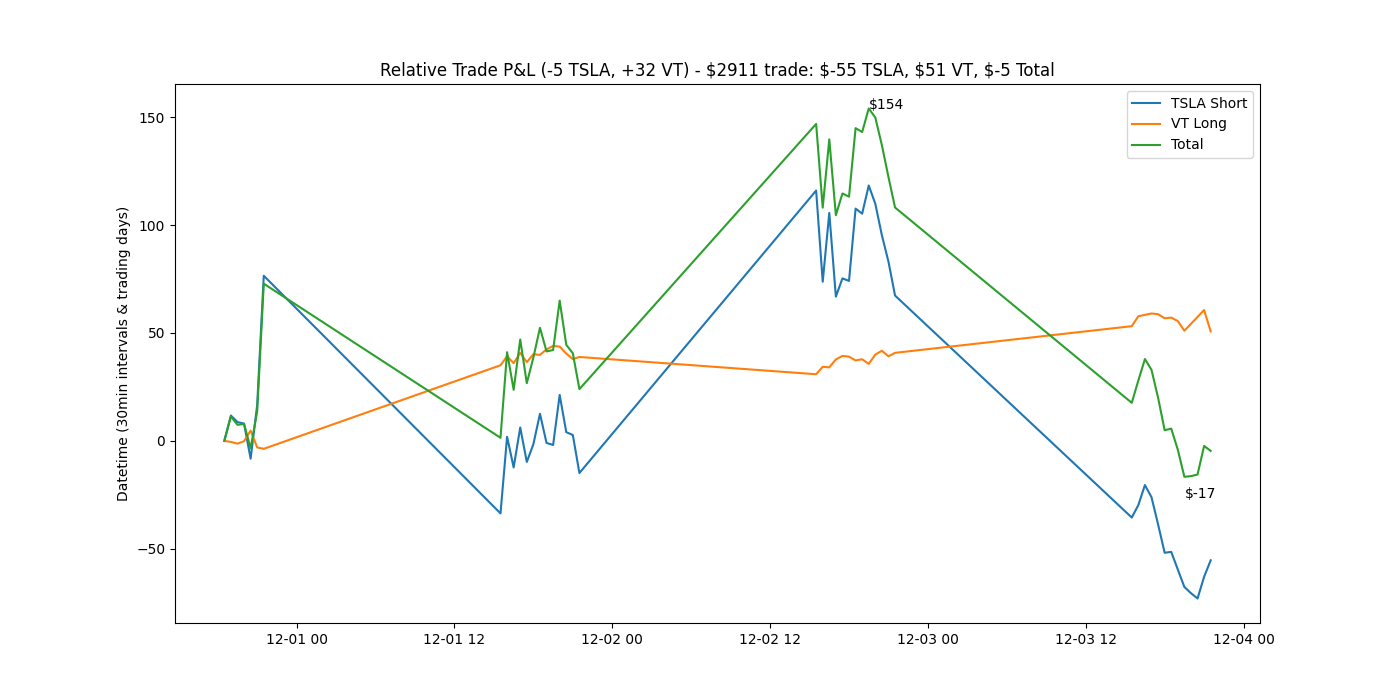
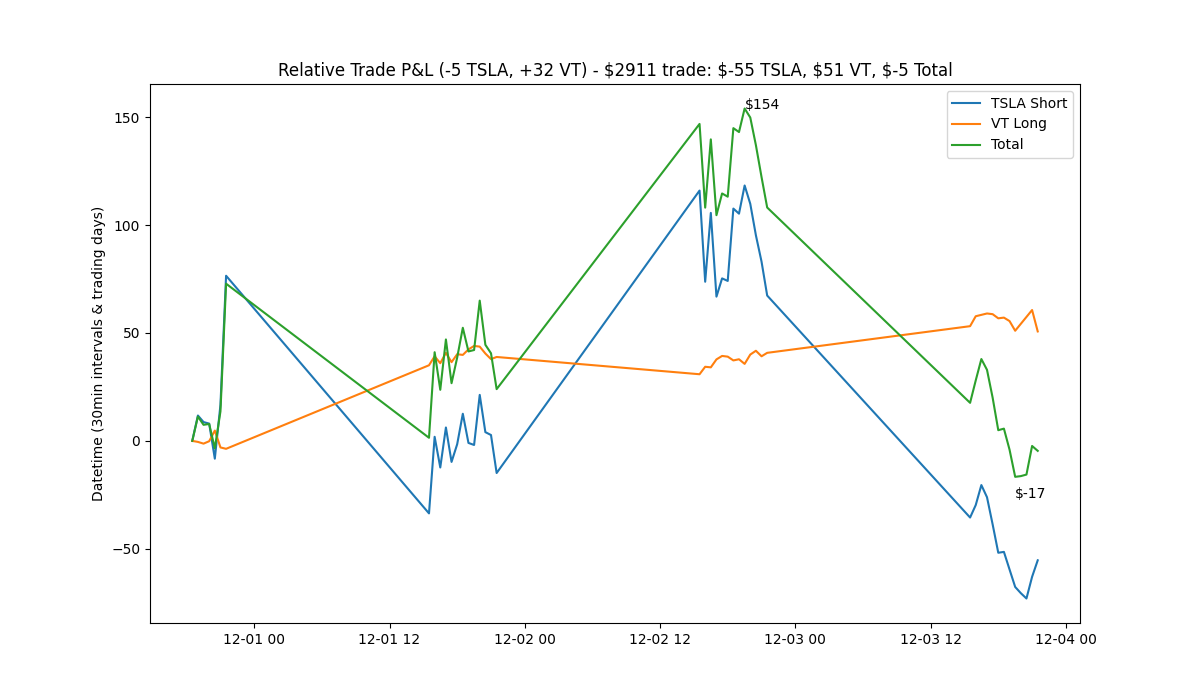
adjust img size for github

diff --git a/tesla_stock.py b/tesla_stock.py
@@ -51,7 +51,7 @@ df = df.drop_duplicates(subset=['Datetime'], keep='last')
 df.to_csv('data.csv', index=False)
 
 # Model our data
-fig, ax = plt.subplots(figsize=(14, 7))
+fig, ax = plt.subplots(figsize=(12, 7))
 ax.plot(df['Datetime'], df['TSLA P&L'], label='TSLA Short')
 ax.plot(df['Datetime'], df['VT P&L'], label='VT Long')
 ax.plot(df['Datetime'], df['Total P&L'], label='Total')
